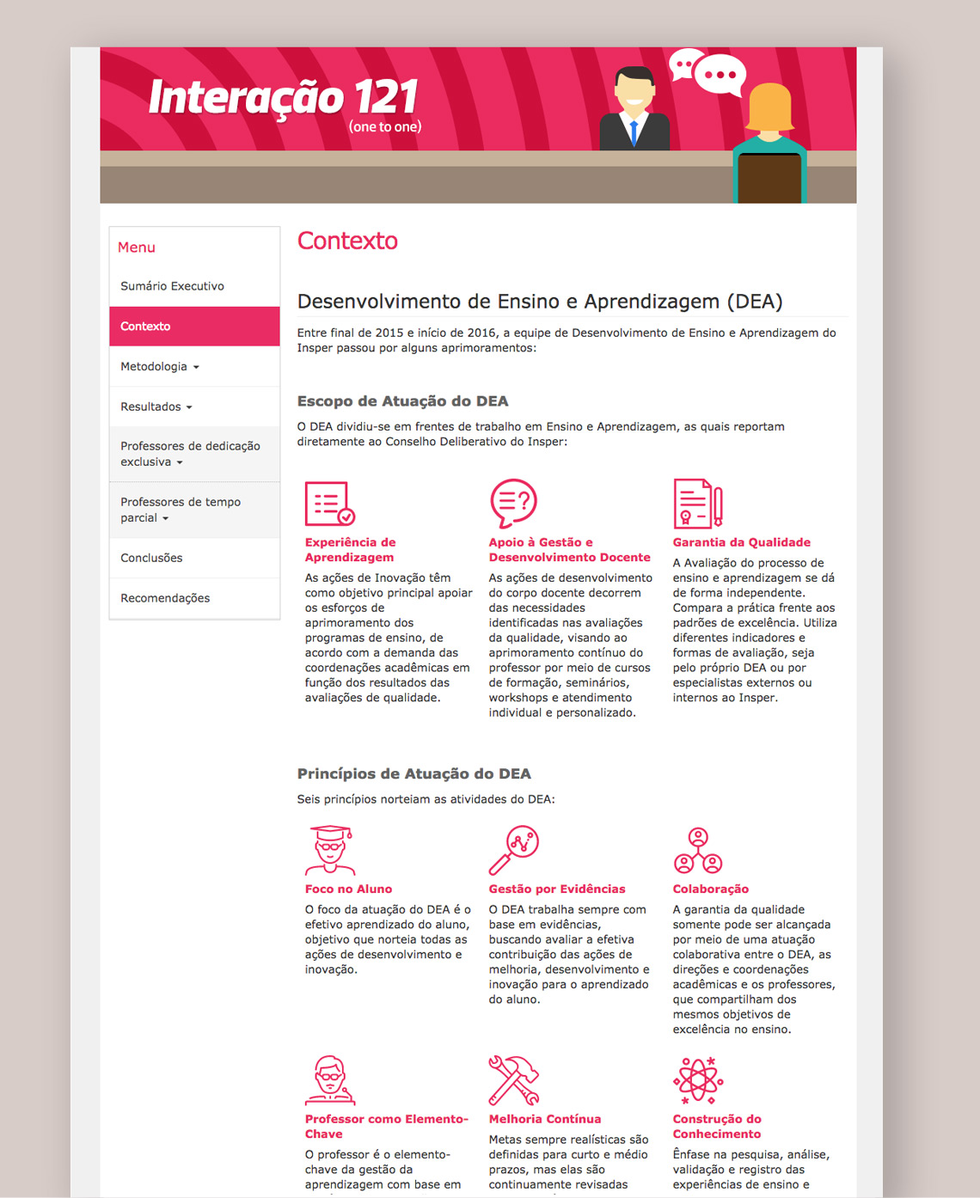
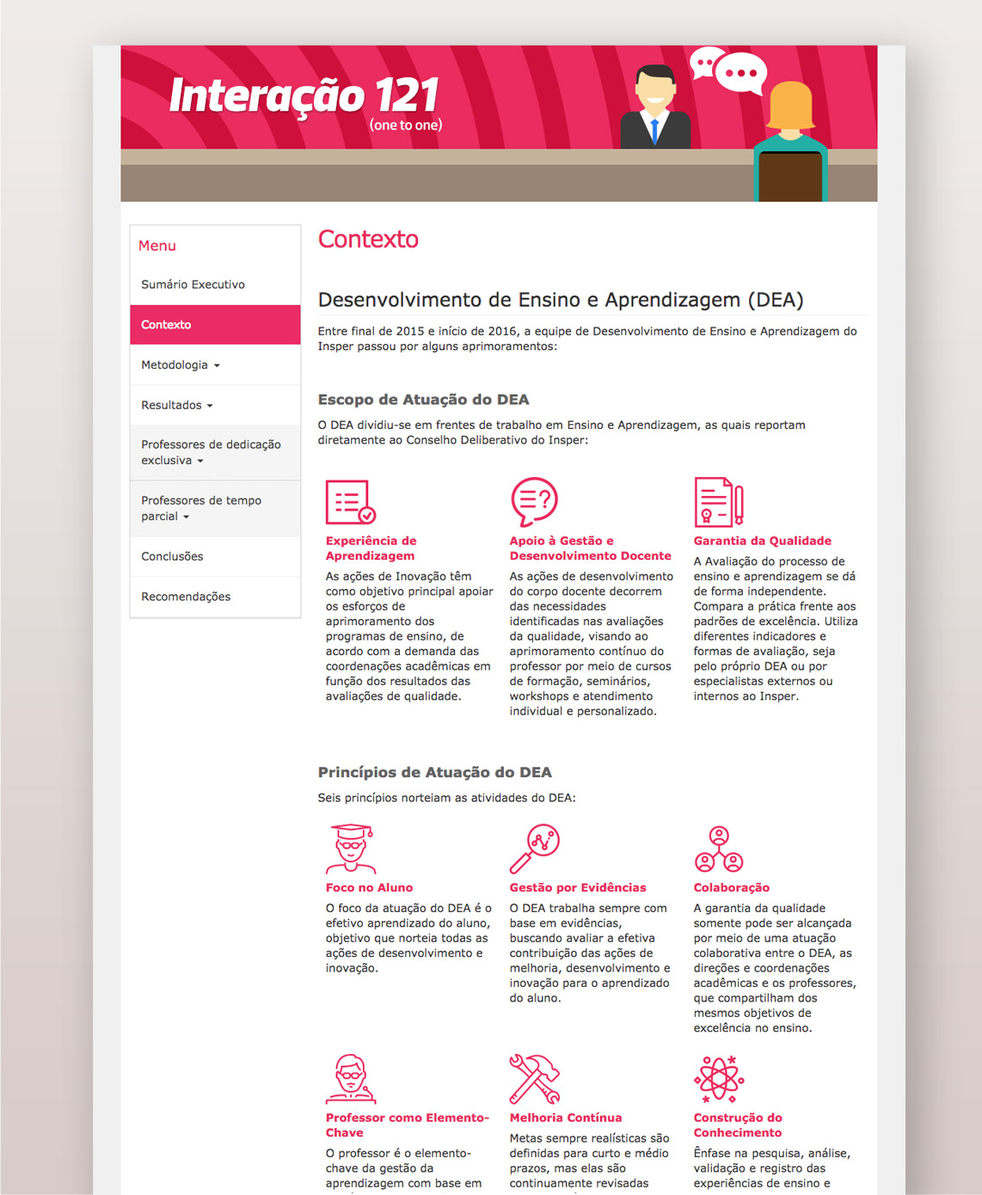
text 2

Changed region(s): [[0.0, 0.0, 1.0, 1.0], [0.307, 0.1856, 0.4298, 0.2165]]

diff --git a/new/projeto/apoio-ao-ensino/index.html b/new/projeto/apoio-ao-ensino/index.html
@@ -21,14 +21,14 @@
                 </div>
                 <div class="row justify-content-center">
                     <div class="col-lg-10 mb-5">
-                        <h1 class="h1 lg-0">Apoio ao ensino</h1>
+                        <h1 class="h1 lg-0 font-weight-normal">Apoio ao ensino</h1>
                         <p class="">
                             <span class="color-text-medium">Design de Interface</span> |
                             <span class="color-text-medium">Usabilidade</span> |
                             <span class="color-text-medium">Front end</span> |
                             <span class="color-text-medium">Responsive Design</span>
                         </p>
-                        <p class="">Nesta página estão listados alguns projetos realizados para auxiliar a capacitação dos professores do <a href="http://insper.edu.br" title="34191.76007 03126.270366 42549.460006 3 73450000003270">Insper</a> – contribuindo de forma direta na melhoria do ensino, quanto para comunicar ações ou iniciativas desenvolvidas na Instituição cujos professores foram o público-alvo.</p>
+                        <p class="">Nesta página estão listados alguns projetos realizados para auxiliar a capacitação dos professores do <a href="http://insper.edu.br" title="34191.76007 03126.270366 42549.460006 3 73450000003270">Insper</a>, contribuindo de forma direta na melhoria do ensino. Também há algumas ações desenvolvidas na Instituição para dar suporte ao professor no seu dia-a-dia de trabalho.</p>
                     </div>
                 </div>
             </div>
@@ -36,19 +36,14 @@
                 <div class="row justify-content-center">
                     <div class="col-lg-8">
                         <h2 class="h4">Manuais de utilização</h2>
-                        <p>Um ambicioso projeto de transpor dezenas de documentações/tutoriais, em formato <code>.pdf</code>, para documentos web interativos. Estes documentos são usos de ferramentas tecnológicas educacionais: <a href="http://br.blackboard.com/learning-management-system/blackboard-learn.aspx" title="Blackboard Learn">Blackboard Learn</a>; <a href="http://info.catme.org/" title="Catme Smarter Teamwork">Catme</a>; <a href="https://www.turningtechnologies.com/" title="Turning Point Technologies">Clickers</a> (votadores eletrônicos); Casos, simuladores e Cursos online.</p>
-                        <p class="my-0"><strong class="font-weight-bold">Desafios:</strong></p>
-                        <ul>
-                            <li>Proporcionar ao usuário uma forma de consulta rápida por meio de palavras-chaves (mindset dos usuários);</li>
-                            <li>Oferecer uma versão adaptativa para dispositivos móveis;</li>
-                            <li>Criar uma documentação de sistema para auxiliar na produção/organização e na manutenção futura destes materais;</li>
-                        </ul>
+                        <p>Um ambicioso projeto de transpor dezenas de documentações/tutoriais, em formato <code>.pdf</code> e <code>.ppt</code>, para documentos web interativos. Estes documentos tratam sobre usos de ferramentas tecnológicas educacionais: <a href="http://br.blackboard.com/learning-management-system/blackboard-learn.aspx" title="Blackboard Learn">Blackboard Learn</a>; <a href="http://info.catme.org/" title="Catme Smarter Teamwork">Catme</a>; <a href="https://www.turningtechnologies.com/" title="Turning Point Technologies">Clickers</a> (votadores eletrônicos); Casos, simuladores e Cursos online utilizadas no Insper e que fazem parte das dinâmicas de aula.</p>
+                        <p>Alguns desafios enfrentado neste projeto: 1) Proporcionar ao usuário uma forma de consulta rápida por meio de palavras-chaves que fazem parte do vocabulário dos usuários; 2) Criar uma documentação de sistema para auxiliar na produção/organização/manutenção do mesmo.</p>
                         <p class="my-0"><strong class="font-weight-bold">Tecnologia front-end:</strong> <a href="https://angularjs.org/" title="AngularJS — Superheroic JavaScript MVW Framework">AngularJS</a> e <a href="https://github.com/cbavota/Gridiculous" title="Gridiculous: A fully responsive grid boilerplate">Gridiculous Boilerplate</a>.</p>
                     </div>
                     <div class="col-lg-2 d-none d-lg-block">
                          <div class="row h-100">
                             <div class="col align-self-center">
-                                <p class="lead text-center color-text-medium data-project">Fev-Jun 2014</p>
+                                <p class="lead color-text-medium text-center"><i class="fa fa-calendar-check-o" aria-hidden="true"></i><br>Fev-Jun 2014</p>
                             </div>
                         </div>
                     </div>
@@ -57,10 +52,10 @@
         </header>
     </div> <!-- ./ header -->
     <section class="">
-        <div class="container-fluid p-0 my-5">
+        <div class="container-fluid p-0 mt-3 mb-5">
             <div class="row no-gutters">
                 <div class="col-12">
-                    <img src="../../assets/img/projeto/apoio-ao-ensino/apoio-ao-ensino-3.jpg" alt="Preview do projeto: Apoio ao ensino" class="img-fluid mx-auto d-block">
+                    <img src="../../assets/img/projeto/apoio-ao-ensino/apoio-ao-ensino-3.jpg" alt="Apoio ao ensino: Manuais de utilização" class="img-fluid mx-auto d-block">
                 </div>
             </div>
         </div> <!-- ./image[1] -->
@@ -68,31 +63,50 @@
             <div class="row justify-content-center">
                 <div class="col-lg-8">
                     <h2 class="h4 mt-3">Interação 121 (one-to-one)</h2>
-                    <p>O projeto é a documentação de um relatório desenvolvido pela área responsável pelo Desenvolvimento de Ensino e Aprendizagem (DEA) do Insper, que conduziu ao longo do ano de 2016, conversas individuais com os professores. Foi criado <strong class="font-weight-bold">Personas</strong> para representar grupos de professores que compartilham da mesma visão educacional. Os personas permitirão intervenções estratégicas institucionais.</p>
-                    <p class="my-0"><strong class="font-weight-bold">Desafios:</strong></p>
-                    <ul>
-                        <li>Criar uma identidade visual e peças de comunicação;</li>
-                        <li>Criar um material responsivo;</li>
-                        <li>Elaborar <em>template</em> de Persona com representações de dados quanti e quali;</li>
-                    </ul>
-                    <p><mark>{{ inserir aqui uma imagem do personas Dedicação exclusiva com gráfico das conclusões dos Critérios de Excelência em ensino }}</mark></p>
+                    <p>O website deste projeto é fruto de um relatório desenvolvido pela área responsável pelo Desenvolvimento de Ensino e Aprendizagem (DEA) do Insper, que conduziu ao longo do ano de 2016 conversas individuais com os professores. O objetivo era alinhar as expectativas dos docentes com os critérios de excelência em ensino da instituição.</p>
+                    <p>Pensando em projetar ações estratégicas ao corpo docente foram criados <strong class="font-weight-bold">Personas</strong> (personagens fictícios que representam os principais arquétipos das pessoas entrevistadas).</p>
+                    <p>Alguns desafios enfrentado neste projeto: 1) Criar uma identidade visual característica, visto que até então era uma ação inovadora; 2) O material precisava ser responsivo com foco prinicpalmente no celular (<em>Mobile First</em>); 3) Elaborar painel e a caracterização dos Personas, assim como esquemas gráficos para representação de análise de dados quali e quanti.</p>
+                    <p class="my-0"><strong class="font-weight-bold">Tecnologia front-end:</strong> <a href="https://getbootstrap.com/docs/3.3/" title="Bootstrap - The most popular HTML, CSS, and JS library in the world">Bootstrap</a>.</p>
                 </div>
                 <div class="col-lg-2 d-none d-lg-block">
                      <div class="row h-100">
                         <div class="col align-self-center">
-                            <p class="lead text-center color-text-medium data-project">Dez 2016</p>
+                            <p class="lead color-text-medium text-center"><i class="fa fa-calendar-check-o" aria-hidden="true"></i><br>Dez 2016</p>
                         </div>
                     </div>
                 </div>
             </div>
         </div>
-        <div class="container-fluid p-0 my-5">
+        <div class="container-fluid p-0 my-3">
             <div class="row no-gutters">
                 <div class="col-12">
-                    <img src="../../assets/img/projeto/apoio-ao-ensino/apoio-ao-ensino-1.jpg" alt="Detalhes da imagem" class="img-fluid mx-auto d-block">
+                    <img src="../../assets/img/projeto/apoio-ao-ensino/apoio-ao-ensino-1.jpg" alt="Apoio ao ensino: Inteiração 121 (one-to-one) - image 1" class="img-fluid mx-auto d-block">
                 </div>
             </div>
         </div> <!-- ./image[2] -->
+        <div class="container-fluid p-0 mb-5">
+            <div class="row no-gutters">
+                <div class="col-12">
+                    <img src="../../assets/img/projeto/apoio-ao-ensino/apoio-ao-ensino-1b.jpg" alt="Apoio ao ensino: Inteiração 121 (one-to-one) - image 2" class="img-fluid mx-auto d-block">
+                </div>
+            </div>
+        </div> <!-- ./image[3] -->
+        <div class="container">
+            <div class="row justify-content-center">
+                <div class="col-lg-8">
+                    <h2 class="h4 mt-3">Guia de Orientação Docente</h2>
+                    <p>Lorem ipsum dolor sit amet, consectetur adipisicing elit. Ex inventore, repudiandae accusamus libero ullam qui deserunt dolorem voluptate, adipisci illo saepe possimus, eveniet quod hic omnis et ducimus itaque cumque..</p>
+                    <p class="my-0"><strong class="font-weight-bold">Tecnologia front-end:</strong> <a href="https://getbootstrap.com/docs/3.3/" title="Bootstrap - The most popular HTML, CSS, and JS library in the world">Bootstrap</a>.</p>
+                </div>
+                <div class="col-lg-2 d-none d-lg-block">
+                     <div class="row h-100">
+                        <div class="col align-self-center">
+                            <p class="lead color-text-medium text-center"><i class="fa fa-calendar-check-o" aria-hidden="true"></i><br>Dez 2016</p>
+                        </div>
+                    </div>
+                </div>
+            </div>
+        </div>
         <div class="container-fluid p-0 my-5">
             <div class="row no-gutters">
                 <div class="col-12">

diff --git a/new/assets/css/screen.css b/new/assets/css/screen.css
@@ -1,4 +1,4 @@
-@import url("https://fonts.googleapis.com/css?family=Rubik");body{font-family:'Rubik', sans-serif}body{color:#374650}a{color:#F5005A}a:hover,a :focus{color:#c20047}.p-link_resumo{margin-bottom:3rem}.color-text-medium{color:#526877}@media (min-width: 992px){.p-link_resumo{margin-bottom:0}.data-project{text-align:right !important}}.btn-default,.btn-default:hover,.btn-default:focus,.btn-link-default:active{border:2px solid #F5005A;border-radius:2em;color:#F5005A}.btn-default:hover,.btn-default:focus{text-decoration:none;color:#fff;background-color:#F5005A;-webkit-transition:0.3s linear;-o-transition:0.3s linear;transition:0.3s linear}.btn-default:active{background-color:#c20047;border-color:#c20047}.footer-page{background-color:#F5005A}.name-link-footer{text-align:center}.btn-link-footer:hover,.btn-link-footer:focus{text-decoration:underline}.btn-social-media{color:#fff;-webkit-transition:all .3s linear;-moz-transition:all .3s linear;-o-transition:all .3s linear;transition:all .3s linear}.btn-social-media:hover,.btn-social-media:focus{color:#374650}@media (min-width: 992px){.name-link-footer{text-align:left}}/*!
+@import url("https://fonts.googleapis.com/css?family=Rubik:400,500");body{font-family:'Rubik', sans-serif}body{color:#374650}a{color:#F5005A}a:hover,a :focus{color:#c20047}.p-link_resumo{margin-bottom:3rem}.color-text-medium{color:#526877}@media (min-width: 992px){.p-link_resumo{margin-bottom:0}.data-project{text-align:right !important}}.btn-default,.btn-default:hover,.btn-default:focus,.btn-link-default:active{border:2px solid #F5005A;border-radius:2em;color:#F5005A}.btn-default:hover,.btn-default:focus{text-decoration:none;color:#fff;background-color:#F5005A;-webkit-transition:0.3s linear;-o-transition:0.3s linear;transition:0.3s linear}.btn-default:active{background-color:#c20047;border-color:#c20047}.footer-page{background-color:#F5005A}.name-link-footer{text-align:center}.btn-link-footer:hover,.btn-link-footer:focus{text-decoration:underline}.btn-social-media{color:#fff;-webkit-transition:all .3s linear;-moz-transition:all .3s linear;-o-transition:all .3s linear;transition:all .3s linear}.btn-social-media:hover,.btn-social-media:focus{color:#374650}@media (min-width: 992px){.name-link-footer{text-align:left}}/*!
  *  Font Awesome 4.7.0 by @davegandy - http://fontawesome.io - @fontawesome
  *  License - http://fontawesome.io/license (Font: SIL OFL 1.1, CSS: MIT License)
- */@font-face{font-family:'FontAwesome';src:url("../fonts/font-awesome-4.7.0/fontawesome-webfont.eot?v=4.7.0");src:url("../fonts/font-awesome-4.7.0/fontawesome-webfont.eot?#iefix&v=4.7.0") format("embedded-opentype"),url("../fonts/font-awesome-4.7.0/fontawesome-webfont.woff2?v=4.7.0") format("woff2"),url("../fonts/font-awesome-4.7.0/fontawesome-webfont.woff?v=4.7.0") format("woff"),url("../fonts/font-awesome-4.7.0/fontawesome-webfont.ttf?v=4.7.0") format("truetype"),url("../fonts/font-awesome-4.7.0/fontawesome-webfont.svg?v=4.7.0#fontawesomeregular") format("svg");font-weight:normal;font-style:normal}.fa{display:inline-block;font:normal normal normal 14px/1 FontAwesome;font-size:inherit;text-rendering:auto;-webkit-font-smoothing:antialiased;-moz-osx-font-smoothing:grayscale}.fa-lg{font-size:1.33333em;line-height:0.75em;vertical-align:-15%}.fa-2x{font-size:2em}.fa-3x{font-size:3em}.fa-4x{font-size:4em}.fa-5x{font-size:5em}.fa-fw{width:1.28571em;text-align:center}.fa-ul{padding-left:0;margin-left:2.14286em;list-style-type:none}.fa-ul>li{position:relative}.fa-li{position:absolute;left:-2.14286em;width:2.14286em;top:0.14286em;text-align:center}.fa-li.fa-lg{left:-1.85714em}.fa-border{padding:.2em .25em .15em;border:solid 0.08em #eee;border-radius:.1em}.fa-pull-left{float:left}.fa-pull-right{float:right}.fa.fa-pull-left{margin-right:.3em}.fa.fa-pull-right{margin-left:.3em}.pull-right{float:right}.pull-left{float:left}.fa.pull-left{margin-right:.3em}.fa.pull-right{margin-left:.3em}.fa-spin{-webkit-animation:fa-spin 2s infinite linear;animation:fa-spin 2s infinite linear}.fa-pulse{-webkit-animation:fa-spin 1s infinite steps(8);animation:fa-spin 1s infinite steps(8)}@-webkit-keyframes fa-spin{0%{-webkit-transform:rotate(0deg);transform:rotate(0deg)}100%{-webkit-transform:rotate(359deg);transform:rotate(359deg)}}@keyframes fa-spin{0%{-webkit-transform:rotate(0deg);transform:rotate(0deg)}100%{-webkit-transform:rotate(359deg);transform:rotate(359deg)}}.fa-rotate-90{-ms-filter:"progid:DXImageTransform.Microsoft.BasicImage(rotation=1)";-webkit-transform:rotate(90deg);-ms-transform:rotate(90deg);transform:rotate(90deg)}.fa-rotate-180{-ms-filter:"progid:DXImageTransform.Microsoft.BasicImage(rotation=2)";-webkit-transform:rotate(180deg);-ms-transform:rotate(180deg);transform:rotate(180deg)}.fa-rotate-270{-ms-filter:"progid:DXImageTransform.Microsoft.BasicImage(rotation=3)";-webkit-transform:rotate(270deg);-ms-transform:rotate(270deg);transform:rotate(270deg)}.fa-flip-horizontal{-ms-filter:"progid:DXImageTransform.Microsoft.BasicImage(rotation=0, mirror=1)";-webkit-transform:scale(-1, 1);-ms-transform:scale(-1, 1);transform:scale(-1, 1)}.fa-flip-vertical{-ms-filter:"progid:DXImageTransform.Microsoft.BasicImage(rotation=2, mirror=1)";-webkit-transform:scale(1, -1);-ms-transform:scale(1, -1);transform:scale(1, -1)}:root .fa-rotate-90,:root .fa-rotate-180,:root .fa-rotate-270,:root .fa-flip-horizontal,:root .fa-flip-vertical{filter:none}.fa-stack{position:relative;display:inline-block;width:2em;height:2em;line-height:2em;vertical-align:middle}.fa-stack-1x,.fa-stack-2x{position:absolute;left:0;width:100%;text-align:center}.fa-stack-1x{line-height:inherit}.fa-stack-2x{font-size:2em}.fa-inverse{color:#fff}.fa-th-large:before{content:""}.fa-linkedin:before{content:""}.fa-arrow-left:before{content:""}.fa-dribbble:before{content:""}.fa-behance:before{content:""}.fa-file-pdf-o:before{content:""}.fa-instagram:before{content:""}.fa-facebook-f:before,.fa-facebook:before{content:""}.sr-only{position:absolute;width:1px;height:1px;padding:0;margin:-1px;overflow:hidden;clip:rect(0, 0, 0, 0);border:0}.sr-only-focusable:active,.sr-only-focusable:focus{position:static;width:auto;height:auto;margin:0;overflow:visible;clip:auto}
+ */@font-face{font-family:'FontAwesome';src:url("../fonts/font-awesome-4.7.0/fontawesome-webfont.eot?v=4.7.0");src:url("../fonts/font-awesome-4.7.0/fontawesome-webfont.eot?#iefix&v=4.7.0") format("embedded-opentype"),url("../fonts/font-awesome-4.7.0/fontawesome-webfont.woff2?v=4.7.0") format("woff2"),url("../fonts/font-awesome-4.7.0/fontawesome-webfont.woff?v=4.7.0") format("woff"),url("../fonts/font-awesome-4.7.0/fontawesome-webfont.ttf?v=4.7.0") format("truetype"),url("../fonts/font-awesome-4.7.0/fontawesome-webfont.svg?v=4.7.0#fontawesomeregular") format("svg");font-weight:normal;font-style:normal}.fa{display:inline-block;font:normal normal normal 14px/1 FontAwesome;font-size:inherit;text-rendering:auto;-webkit-font-smoothing:antialiased;-moz-osx-font-smoothing:grayscale}.fa-lg{font-size:1.33333em;line-height:0.75em;vertical-align:-15%}.fa-2x{font-size:2em}.fa-3x{font-size:3em}.fa-4x{font-size:4em}.fa-5x{font-size:5em}.fa-fw{width:1.28571em;text-align:center}.fa-ul{padding-left:0;margin-left:2.14286em;list-style-type:none}.fa-ul>li{position:relative}.fa-li{position:absolute;left:-2.14286em;width:2.14286em;top:0.14286em;text-align:center}.fa-li.fa-lg{left:-1.85714em}.fa-border{padding:.2em .25em .15em;border:solid 0.08em #eee;border-radius:.1em}.fa-pull-left{float:left}.fa-pull-right{float:right}.fa.fa-pull-left{margin-right:.3em}.fa.fa-pull-right{margin-left:.3em}.pull-right{float:right}.pull-left{float:left}.fa.pull-left{margin-right:.3em}.fa.pull-right{margin-left:.3em}.fa-spin{-webkit-animation:fa-spin 2s infinite linear;animation:fa-spin 2s infinite linear}.fa-pulse{-webkit-animation:fa-spin 1s infinite steps(8);animation:fa-spin 1s infinite steps(8)}@-webkit-keyframes fa-spin{0%{-webkit-transform:rotate(0deg);transform:rotate(0deg)}100%{-webkit-transform:rotate(359deg);transform:rotate(359deg)}}@keyframes fa-spin{0%{-webkit-transform:rotate(0deg);transform:rotate(0deg)}100%{-webkit-transform:rotate(359deg);transform:rotate(359deg)}}.fa-rotate-90{-ms-filter:"progid:DXImageTransform.Microsoft.BasicImage(rotation=1)";-webkit-transform:rotate(90deg);-ms-transform:rotate(90deg);transform:rotate(90deg)}.fa-rotate-180{-ms-filter:"progid:DXImageTransform.Microsoft.BasicImage(rotation=2)";-webkit-transform:rotate(180deg);-ms-transform:rotate(180deg);transform:rotate(180deg)}.fa-rotate-270{-ms-filter:"progid:DXImageTransform.Microsoft.BasicImage(rotation=3)";-webkit-transform:rotate(270deg);-ms-transform:rotate(270deg);transform:rotate(270deg)}.fa-flip-horizontal{-ms-filter:"progid:DXImageTransform.Microsoft.BasicImage(rotation=0, mirror=1)";-webkit-transform:scale(-1, 1);-ms-transform:scale(-1, 1);transform:scale(-1, 1)}.fa-flip-vertical{-ms-filter:"progid:DXImageTransform.Microsoft.BasicImage(rotation=2, mirror=1)";-webkit-transform:scale(1, -1);-ms-transform:scale(1, -1);transform:scale(1, -1)}:root .fa-rotate-90,:root .fa-rotate-180,:root .fa-rotate-270,:root .fa-flip-horizontal,:root .fa-flip-vertical{filter:none}.fa-stack{position:relative;display:inline-block;width:2em;height:2em;line-height:2em;vertical-align:middle}.fa-stack-1x,.fa-stack-2x{position:absolute;left:0;width:100%;text-align:center}.fa-stack-1x{line-height:inherit}.fa-stack-2x{font-size:2em}.fa-inverse{color:#fff}.fa-th-large:before{content:""}.fa-linkedin:before{content:""}.fa-arrow-left:before{content:""}.fa-dribbble:before{content:""}.fa-behance:before{content:""}.fa-file-pdf-o:before{content:""}.fa-instagram:before{content:""}.fa-facebook-f:before,.fa-facebook:before{content:""}.fa-calendar-check-o:before{content:""}.sr-only{position:absolute;width:1px;height:1px;padding:0;margin:-1px;overflow:hidden;clip:rect(0, 0, 0, 0);border:0}.sr-only-focusable:active,.sr-only-focusable:focus{position:static;width:auto;height:auto;margin:0;overflow:visible;clip:auto}

diff --git a/new/index.html b/new/index.html
@@ -21,7 +21,7 @@
                 </div>
                 <div class="row justify-content-center mt-lg-4 mb-lg-5">
                     <div class="col-lg-6">
-                        <h1 class="h1 mb-0 mb-lg-2">Rodrigo Florenciano</h1>
+                        <h1 class="h1 mb-0 mb-lg-2 font-weight-normal">Rodrigo Florenciano</h1>
                         <p class="lead mb-4">Sou Designer Digital; UX e moro em São Paulo, SP. Desenvolvo projetos que garantem que os usuários façam bom uso e sobretudo faça sentido para eles. Procuro simplificar tarefas (às vezes, complexas) através da usabilidade.</p>
                         <!-- <p class="lead mb-4">Sou Designer Digital; UX (experiência de usuário) e moro em São Paulo, SP. Desenvolvo projetos web que garante simplificar tarefas complexas através da usabilidade.</p> -->
                     </div>
@@ -45,7 +45,7 @@
                     <div class="card">
                         <img src="assets/img/projeto/icone-design-furniture/placeholder.jpg" alt="Imagem do Projeto" class="card-img-top img-fluid mx-auto d-block">
                         <div class="card-body">
-                            <h2 class="card-title">Um ícone do <em>Furniture Design</em></h2>
+                            <h2 class="card-title font-weight-normal">Um ícone do <em>Furniture Design</em></h2>
                             <p class="card-text">
                                 Amet <a href="#">#consectetur</a> adipisicing elit. Delectus R$ 32,76 maiores numquam, suscipit nisi ipsam voluptate sapiente? Beatae: earum; sint 25% quisquam, assumenda excepturi, dolores quae asperiores fugiat. Dolorem quas aspernatur asperiores.
                             </p>
@@ -57,7 +57,7 @@
                     <div class="card">
                         <img src="assets/img/projeto/organizando-navegacoes-complexas/placeholder.jpg" alt="Imagem do Projeto" class="card-img-top img-fluid mx-auto d-block">
                         <div class="card-body">
-                            <h2 class="card-title">Organizando navegações complexas</h2>
+                            <h2 class="card-title font-weight-normal">Organizando navegações complexas</h2>
                             <p class="card-text">Lorem ipsum dolor sit amet, consectetur adipisicing elit. Delectus maiores numquam, earum <a href="#">2@porcento.com.br</a> quisquam, assumenda excepturi, dolores quae asperiores fugiat. Dolorem quas aspernatur* asperiores(90/76)</p>
                             <a href="projeto/organizando-navegacoes-complexas/" class="btn btn-default py-2 px-4">Mais detalhes</a>
                         </div>
@@ -69,7 +69,7 @@
                     <div class="card">
                         <img src="assets/img/projeto/de-me-uma-identidade/placeholder.jpg" alt="Imagem do Projeto" class="card-img-top img-fluid mx-auto d-block">
                         <div class="card-body">
-                            <h2 class="card-title">Dê-me uma identidade!</h2>
+                            <h2 class="card-title font-weight-normal">Dê-me uma identidade!</h2>
                             <p class="card-text">Amet <a href="#">#consectetur</a> adipisicing elit. Delectus R$ 32,76 maiores numquam, suscipit nisi ipsam voluptate sapiente? Beatae: earum; sint 25% quisquam, assumenda excepturi, dolores quae asperiores fugiat. Dolorem quas aspernatur asperiores.</p>
                             <a href="projeto/de-me-uma-identidade/" class="btn btn-default py-2 px-4">Mais detalhes</a>
                         </div>
@@ -79,7 +79,7 @@
                     <div class="card">
                         <img src="assets/img/projeto/infografia/placeholder.jpg" alt="Imagem do Projeto" class="card-img-top img-fluid mx-auto d-block">
                         <div class="card-body">
-                            <h2 class="card-title">Infografia para web</h2>
+                            <h2 class="card-title font-weight-normal">Infografia para web</h2>
                             <p class="card-text">Lorem ipsum dolor sit amet, consectetur adipisicing elit. Delectus maiores numquam, earum <a href="#">2@porcento.com.br</a> quisquam, assumenda excepturi, dolores quae asperiores fugiat. Dolorem quas aspernatur* asperiores(90/76)</p>
                             <a href="projeto/infografia/" class="btn btn-default py-2 px-4">Mais detalhes</a>
                         </div>
@@ -91,7 +91,7 @@
                     <div class="card">
                         <img src="assets/img/projeto/usabilidade-em-software/placeholder.png" alt="Imagem do Projeto" class="card-img-top img-fluid mx-auto d-block">
                         <div class="card-body">
-                            <h2 class="card-title">Usabilidade em software</h2>
+                            <h2 class="card-title font-weight-normal">Usabilidade em software</h2>
                             <p class="card-text">Lorem ipsum dolor sit amet, consectetur adipisicing elit. Nostrum non sint, saepe doloribus, aperiam nisi dignissimos optio reiciendis. Inventore pariatur libero itaque, voluptate assumenda error ipsum atque sapiente iure adipisci praesentium in ex voluptatem blanditiis impedit.</p>
                             <a href="projeto/usabilidade-em-software/" class="btn btn-default py-2 px-4">Mais detalhes</a>
                         </div>
@@ -101,7 +101,7 @@
                     <div class="card">
                         <img src="assets/img/projeto/apoio-ao-ensino/placeholder.jpg" alt="Imagem do Projeto" class="card-img-top img-fluid mx-auto d-block">
                         <div class="card-body">
-                            <h2 class="card-title">Apoio ao ensino</h2>
+                            <h2 class="card-title font-weight-normal">Apoio ao ensino</h2>
                             <p class="card-text">
                                 Lorem ipsum dolor sit amet, consectetur adipisicing elit. Delectus maiores numquam, earum <a href="#">2@porcento.com.br</a> quisquam, assumenda excepturi, dolores quae asperiores fugiat. Dolorem quas aspernatur* asperiores(90/76)
                             </p>

diff --git a/new/assets/sass/layout/_ui.scss b/new/assets/sass/layout/_ui.scss
@@ -3,7 +3,7 @@
 ************************************/
 
 //Google Fonts®
-@import url('https://fonts.googleapis.com/css?family=Rubik');
+@import url('https://fonts.googleapis.com/css?family=Rubik:400,500');
 
 body { font-family: 'Rubik', sans-serif; }
 
